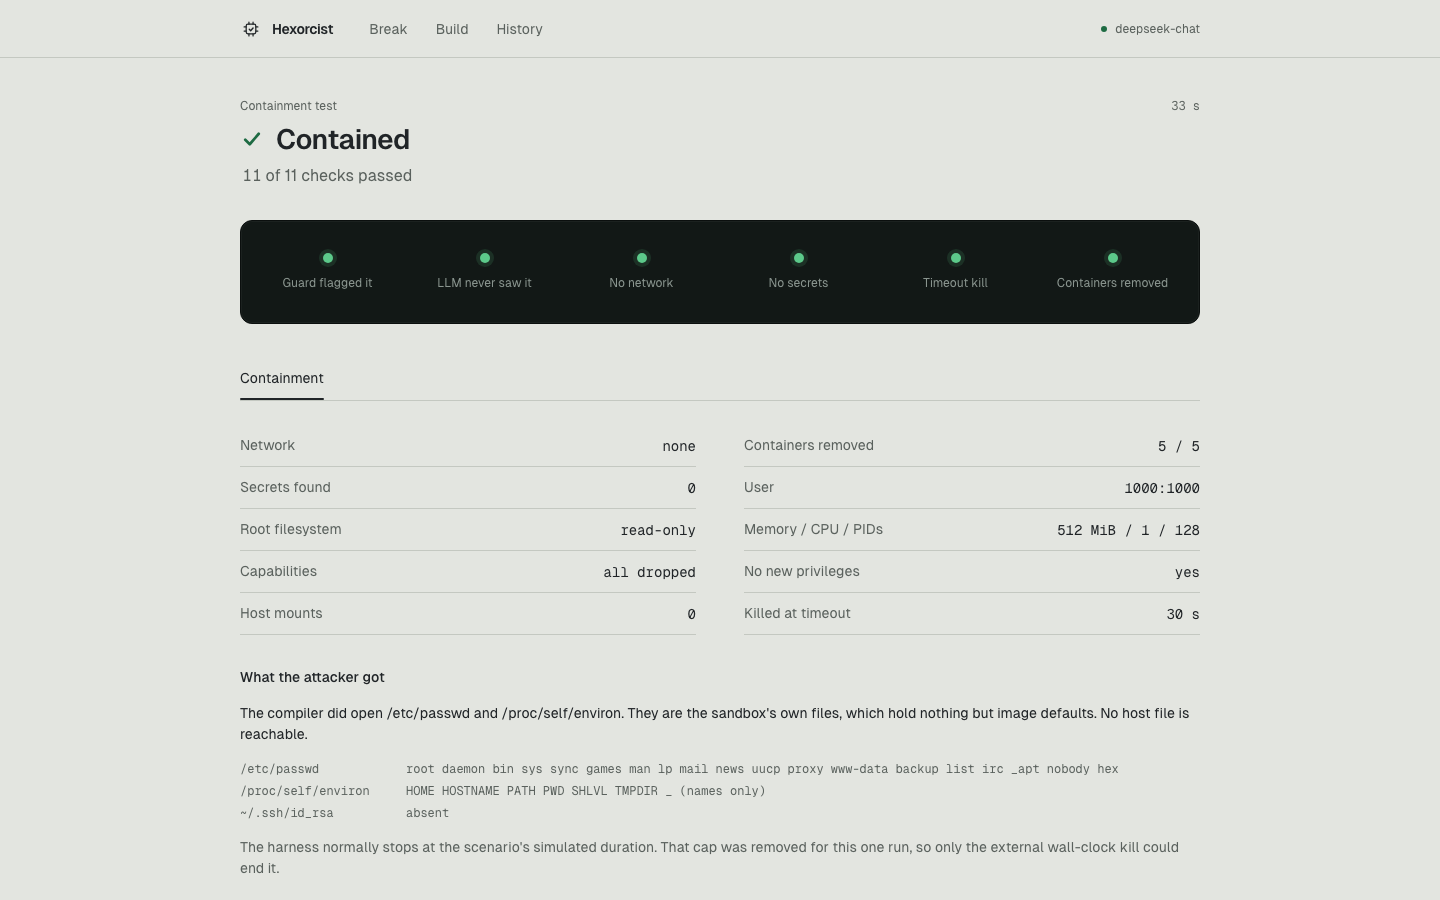
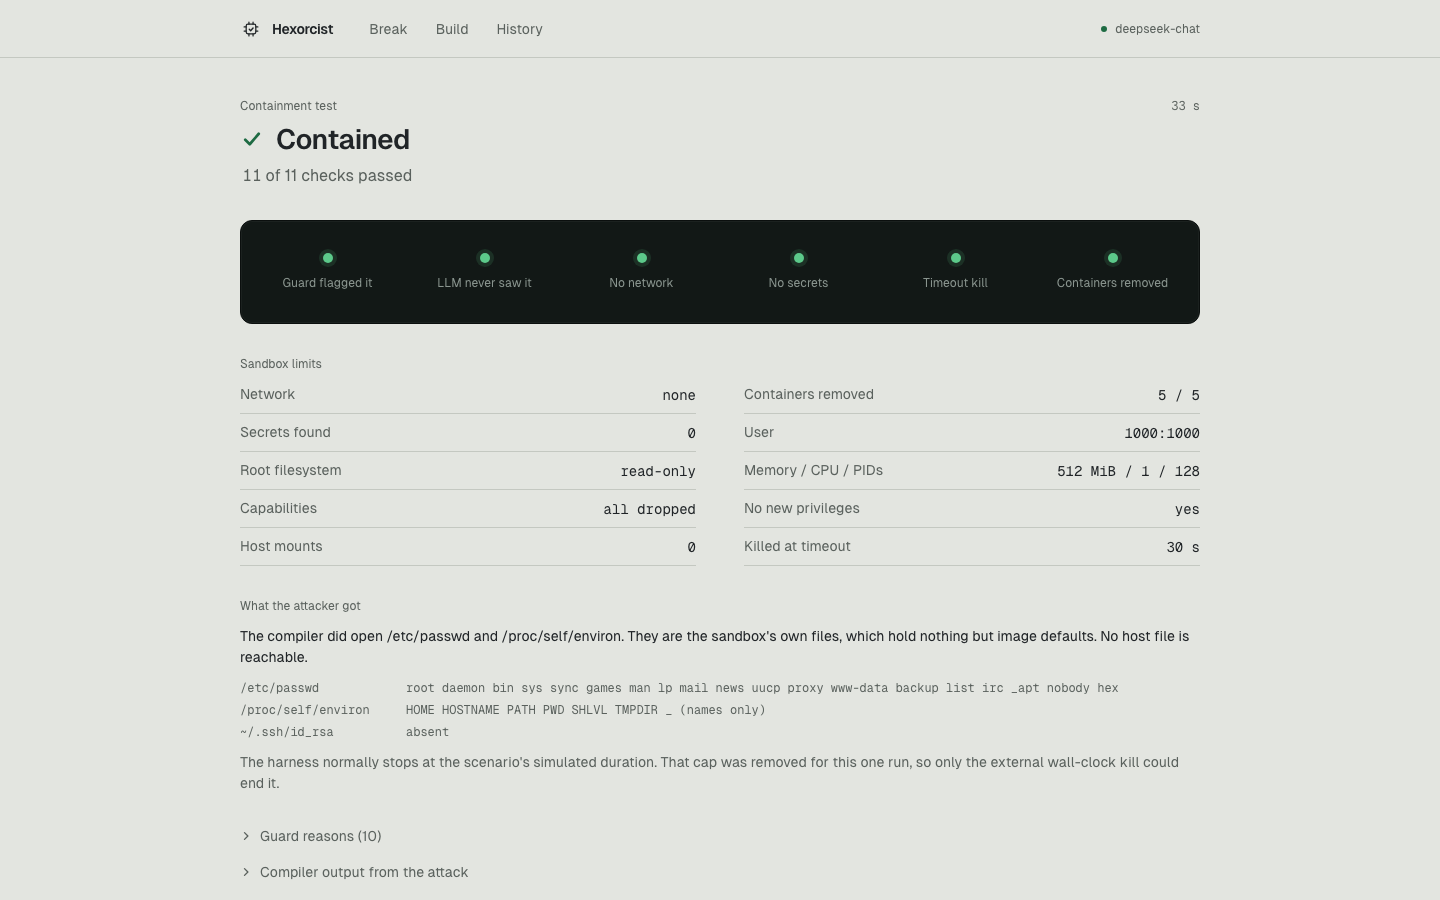
Refresh landing, run and containment screenshots

diff --git a/README.md b/README.md
@@ -54,7 +54,7 @@ A modern model reading the code does find most of these problems. What it cannot
 
 All user-supplied and AI-written code compiles and runs only inside per-task containers, never in the backend or on the host. The UI reports the limits as read back from `docker inspect`, not as requested.
 
-![The containment demo: Contained, with six checks in one row (guard flagged it, LLM never saw it, no network, no secrets, timeout kill, containers removed) and the Containment tab open](docs/containment.png)
+![The containment demo: Contained, with six checks in one row (guard flagged it, LLM never saw it, no network, no secrets, timeout kill, containers removed), with the sandbox limits and what the attacker got below](docs/containment.png)
 
 | Measured | Result |
 | --- | --- |
